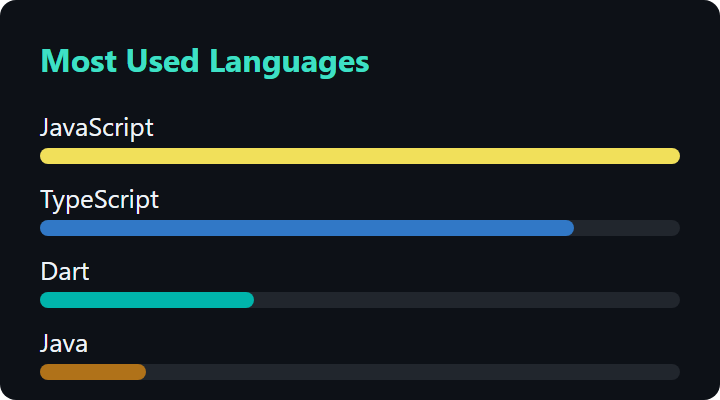
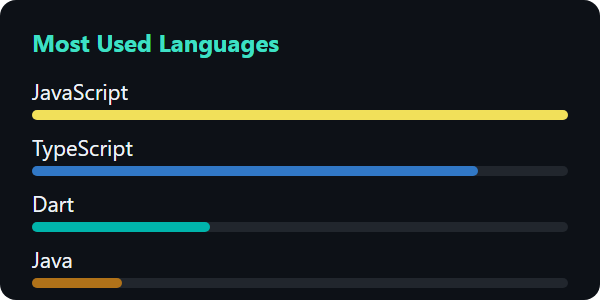
fix: shrink the Most Used Languages card

diff --git a/README.md b/README.md
@@ -63,8 +63,8 @@
 ---
 
 <p align="center">
-  <img src="https://cdn.jsdelivr.net/gh/Ashenk97/Ashenk97@main/assets/languages.png" alt="Top languages" />
-  <img src="https://streak-stats.demolab.com?user=Ashenk97&theme=dark&hide_border=true&ring=3ee0c5&fire=3ee0c5&currStreakLabel=3ee0c5" alt="GitHub streak" />
+  <img src="https://cdn.jsdelivr.net/gh/Ashenk97/Ashenk97@main/assets/languages.png" alt="Top languages" height="150" />
+  <img src="https://streak-stats.demolab.com?user=Ashenk97&theme=dark&hide_border=true&ring=3ee0c5&fire=3ee0c5&currStreakLabel=3ee0c5" alt="GitHub streak" height="150" />
 </p>
 
 ## Contribution Snake
